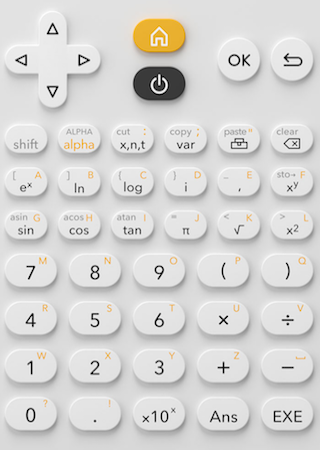
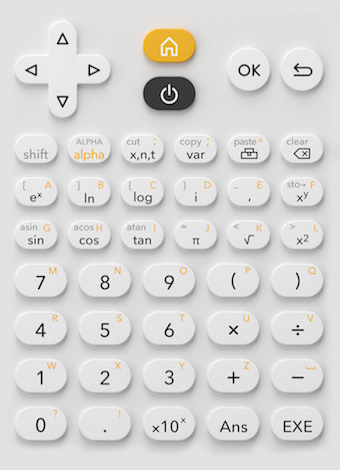
Improve blending of keyboard image with window backgroud

diff --git a/ion/src/simulator/init.cpp b/ion/src/simulator/init.cpp
@@ -28,6 +28,7 @@ void init_platform() {
   int keyboard_height = 450;
 
   Fl_Window * window = new Fl_Window(screen_width+2*margin, margin+screen_height+margin+keyboard_height+margin);
+  window->color (Fl_Color(0XDDDDDD00));  // For better blending with the keyboard image
 
   KDColor * pixels = (KDColor *)malloc(Ion::Display::Width*Ion::Display::Height*sizeof(KDColor));
   sFrameBuffer = new KDFrameBuffer(pixels, KDSize(Ion::Display::Width, Ion::Display::Height));

diff --git a/ion/src/simulator/keyboard/fltkkbd.cpp b/ion/src/simulator/keyboard/fltkkbd.cpp
@@ -91,7 +91,9 @@ FltkKbd::FltkKbd(int x, int y, int w, int h) : Fl_Group(x, y, w, h) {
     m_buttons[k]->clear_visible_focus();
   }
 
-  Bkg_Image = new UserInterface (x, y, w, h);
+  // The keyboard image includes the margins so shift the anchor point left & up
+  int margin = x;
+  Bkg_Image = new UserInterface (x-margin, y-margin, w+2*margin, h+2*margin);
 
   end();
 }
